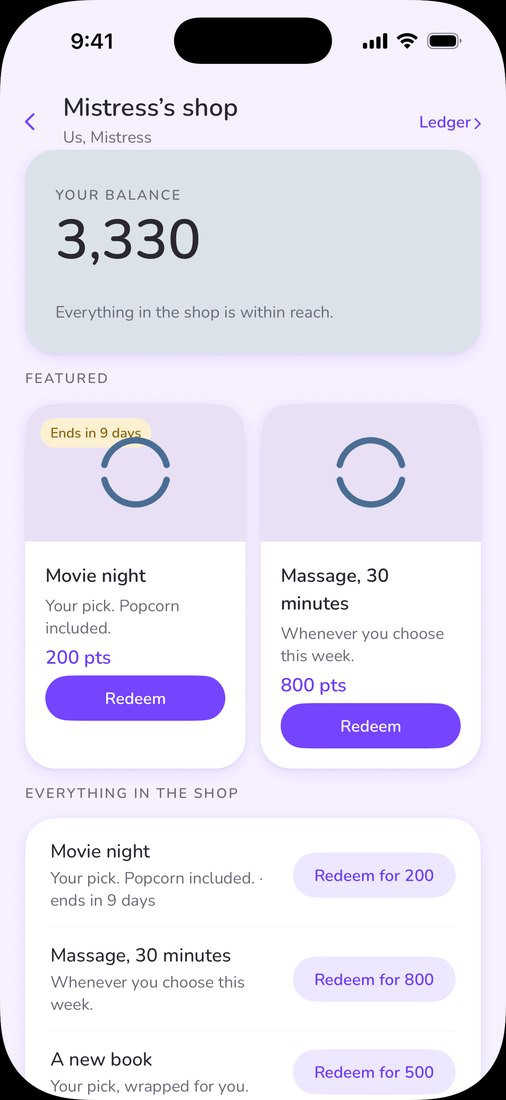
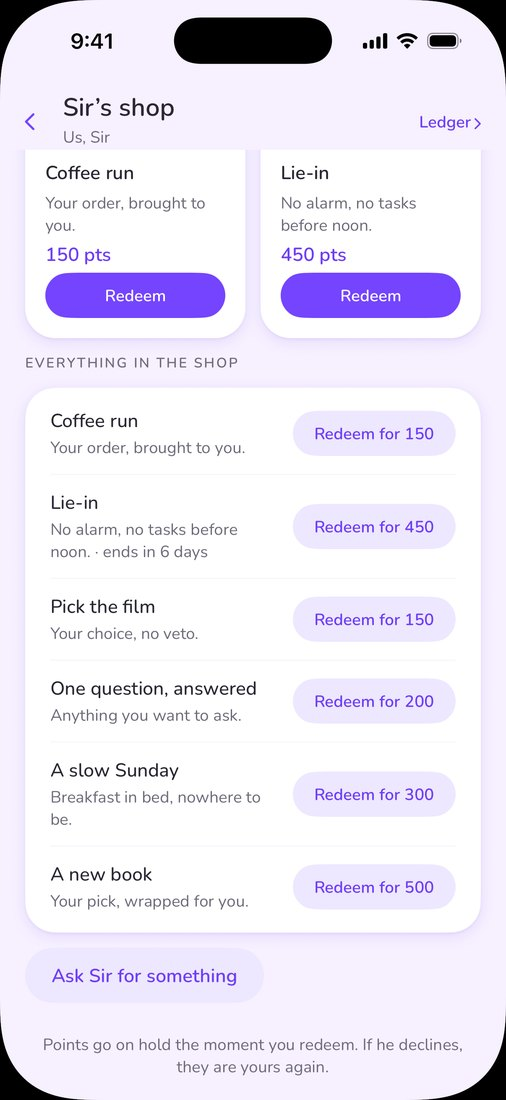
Stage: the points pair is Theo and Luna: Sir's shop scrolled so the list rows lead (no progress rings that read as spinners) and Luna's punishment from Sir

diff --git a/index.html b/index.html
@@ -118,8 +118,8 @@
       <div class="hook"><span class="hg"><svg width="18" height="18" aria-hidden="true"><use href="#g-star"/></svg></span><div><b>One ledger, two phones</b>Every point, reward and punishment reads the same on both phones, wherever each of you is.</div></div>
     </div>
     <div class="shots duet">
-      <div class="phone"><div class="v"><img src="/assets/v2/shop-phone.jpg" width="506" height="1100" loading="lazy" alt="Luna's view of Mistress's shop: a balance of 3,330 points, Movie night and a massage to redeem"></div><div class="float pts" aria-hidden="true">+30</div></div>
-      <div class="phone"><div class="v"><img src="/assets/v2/pun-hers.jpg" width="506" height="1100" loading="lazy" alt="Luna's punishment from Mistress: lines, fifty points taken"></div></div>
+      <div class="phone"><div class="v"><img src="/assets/v2/shop-phone.jpg" width="506" height="1100" loading="lazy" alt="Luna's view of Sir's shop: Coffee run, Lie-in, Pick the film and more, each with its price to redeem"></div><div class="float pts" aria-hidden="true">+30</div></div>
+      <div class="phone"><div class="v"><img src="/assets/v2/punishment.jpg" width="506" height="1100" loading="lazy" alt="Luna's punishment from Sir: lines, fifty points taken"></div></div>
     </div>
   </div>
 </section>
